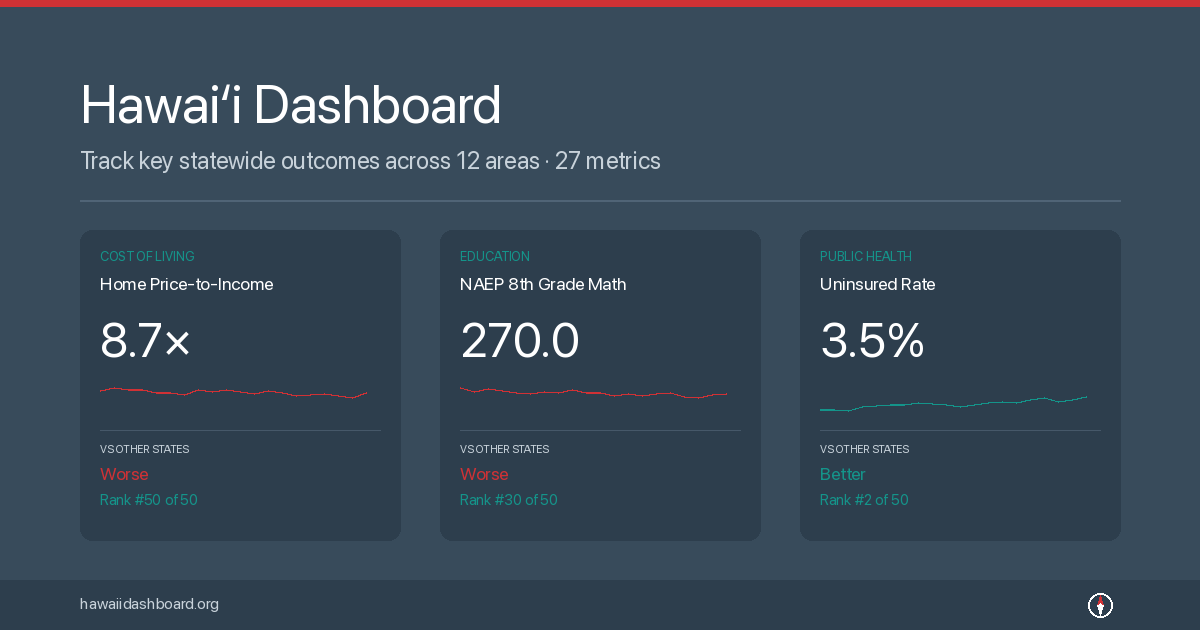
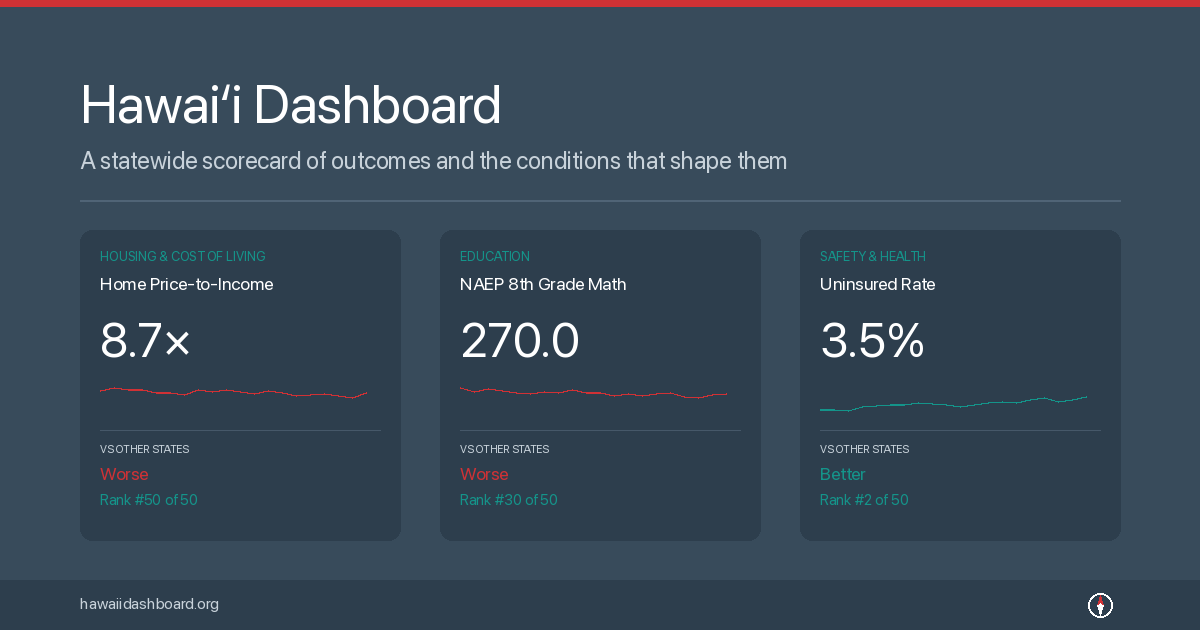
Rename 'Infrastructure, Energy, Resilience & Trust' to drop Energy
Shorter label: 'Infrastructure, Resilience & Trust'. Energy metrics
(electricity price, renewables) are still in this group -- the
category name just doesn't need to call it out separately.

Also regenerated main OG image with updated area labels.

Changed region(s): [[0.0617, 0.2413, 0.6475, 0.2714], [0.0925, 0.3921, 0.2158, 0.4222], [0.6783, 0.3921, 0.7708, 0.4222]]

diff --git a/about/index.html b/about/index.html
@@ -106,7 +106,7 @@
                         <tr><td rowspan="4"><a href="https://data.census.gov/" target="_blank" rel="noopener">Census ACS</a></td><td class="metric-name">Uninsured Rate</td><td class="area-cell">Safety &amp; Health</td><td>%</td><td>2010-2024</td><td class="direction-cell">Lower</td><td class="note-cell">Survey estimate; margin of error</td></tr>
                         <tr><td class="metric-name">Renters Paying 30%+ for Housing</td><td class="area-cell">Housing &amp; Cost of Living</td><td>%</td><td>2012-2024</td><td class="direction-cell">Lower</td><td class="note-cell">30% rule is a rough cutoff</td></tr>
                         <tr><td class="metric-name">Home Price-to-Income Ratio</td><td class="area-cell">Housing &amp; Cost of Living</td><td>&times;</td><td>2005-2024</td><td class="direction-cell">Lower</td><td class="note-cell">Proxy only; financing not included</td></tr>
-                        <tr><td class="metric-name">Households with Broadband</td><td class="area-cell">Infra, Energy, Resilience &amp; Trust</td><td>%</td><td>2016-2024</td><td class="direction-cell">Higher</td><td class="note-cell">Has service, not speed/quality</td></tr>
+                        <tr><td class="metric-name">Households with Broadband</td><td class="area-cell">Infra, Resilience &amp; Trust</td><td>%</td><td>2016-2024</td><td class="direction-cell">Higher</td><td class="note-cell">Has service, not speed/quality</td></tr>
                         <tr><td rowspan="3"><a href="https://www.bls.gov/" target="_blank" rel="noopener">BLS</a></td><td class="metric-name">Unemployment Rate</td><td class="area-cell">Economy &amp; Workforce</td><td>%</td><td>1976-2024</td><td class="direction-cell">Lower</td><td class="note-cell">Excludes discouraged workers</td></tr>
                         <tr><td class="metric-name">Labor Force Participation</td><td class="area-cell">Economy &amp; Workforce</td><td>%</td><td>1976-2024</td><td class="direction-cell">Higher</td><td class="note-cell">Does not show job quality</td></tr>
                         <tr><td class="metric-name">Labor Productivity</td><td class="area-cell">Economy &amp; Workforce</td><td>Index</td><td>2007-2024</td><td class="direction-cell">Higher</td><td class="note-cell">Output per hour, not pay</td></tr>
@@ -115,18 +115,18 @@
                         <tr><td rowspan="2"><a href="https://cde.ucr.cjis.gov/" target="_blank" rel="noopener">FBI UCR</a></td><td class="metric-name">Violent Crime Rate</td><td class="area-cell">Safety &amp; Health</td><td>per 100K</td><td>1985-2024</td><td class="direction-cell">Lower</td><td class="note-cell">Reported crimes; 2021 method change</td></tr>
                         <tr><td class="metric-name">Property Crime Rate</td><td class="area-cell">Safety &amp; Health</td><td>per 100K</td><td>1985-2024</td><td class="direction-cell">Lower</td><td class="note-cell">Reported crimes; 2021 method change</td></tr>
                         <tr><td rowspan="2"><a href="https://www.eia.gov/electricity/data/state/" target="_blank" rel="noopener">EIA</a></td><td class="metric-name">Residential Electricity Price</td><td class="area-cell">Housing &amp; Cost of Living</td><td>&cent;/kWh</td><td>1990-2025</td><td class="direction-cell">Lower</td><td class="note-cell">Price, not monthly bill</td></tr>
-                        <tr><td class="metric-name">Electricity from Renewables</td><td class="area-cell">Infra, Energy, Resilience &amp; Trust</td><td>%</td><td>2003-2025</td><td class="direction-cell">Higher</td><td class="note-cell">Generation share, not full mix</td></tr>
+                        <tr><td class="metric-name">Electricity from Renewables</td><td class="area-cell">Infra, Resilience &amp; Trust</td><td>%</td><td>2003-2025</td><td class="direction-cell">Higher</td><td class="note-cell">Generation share, not full mix</td></tr>
                         <tr><td><a href="https://www.bea.gov/data/income-saving/personal-income-by-state" target="_blank" rel="noopener">BEA</a></td><td class="metric-name">Per Capita Income (cost-of-living adj.)</td><td class="area-cell">Economy &amp; Workforce</td><td>$</td><td>2008-2024</td><td class="direction-cell">Higher</td><td class="note-cell">Average income; hides gaps</td></tr>
                         <tr><td><a href="https://www.cdc.gov/suicide/facts/data.html" target="_blank" rel="noopener">CDC NVSS</a></td><td class="metric-name">Suicide Rate</td><td class="area-cell">Safety &amp; Health</td><td>per 100K</td><td>1999-2024</td><td class="direction-cell">Lower</td><td class="note-cell">Small numbers can swing rate</td></tr>
-                        <tr><td><a href="https://www.census.gov/data/datasets/time-series/demo/popest/2020s-state-total.html" target="_blank" rel="noopener">Census PEP</a></td><td class="metric-name">People Moving In vs. Out</td><td class="area-cell">Infra, Energy, Resilience &amp; Trust</td><td>per 10K</td><td>2001-2024</td><td class="direction-cell">Higher</td><td class="note-cell">Net flow, not reasons</td></tr>
-                        <tr><td><a href="https://www.fhwa.dot.gov/policyinformation/statistics.cfm" target="_blank" rel="noopener">FHWA</a></td><td class="metric-name">Roads in Poor Condition</td><td class="area-cell">Infra, Energy, Resilience &amp; Trust</td><td>%</td><td>2007-2023</td><td class="direction-cell">Lower</td><td class="note-cell">Not all local roads</td></tr>
+                        <tr><td><a href="https://www.census.gov/data/datasets/time-series/demo/popest/2020s-state-total.html" target="_blank" rel="noopener">Census PEP</a></td><td class="metric-name">People Moving In vs. Out</td><td class="area-cell">Infra, Resilience &amp; Trust</td><td>per 10K</td><td>2001-2024</td><td class="direction-cell">Higher</td><td class="note-cell">Net flow, not reasons</td></tr>
+                        <tr><td><a href="https://www.fhwa.dot.gov/policyinformation/statistics.cfm" target="_blank" rel="noopener">FHWA</a></td><td class="metric-name">Roads in Poor Condition</td><td class="area-cell">Infra, Resilience &amp; Trust</td><td>%</td><td>2007-2023</td><td class="direction-cell">Lower</td><td class="note-cell">Not all local roads</td></tr>
                         <tr><td><a href="https://data.hrsa.gov/topics/health-workforce/nchwa/ahrf" target="_blank" rel="noopener">HRSA</a></td><td class="metric-name">Primary Care Physicians (civilian doctors and residents)</td><td class="area-cell">Safety &amp; Health</td><td>per 100K</td><td>2010-2023</td><td class="direction-cell">Higher</td><td class="note-cell">Doctor count, not access</td></tr>
                         <tr><td><a href="https://www.huduser.gov/portal/datasets/ahar.html" target="_blank" rel="noopener">HUD</a></td><td class="metric-name">Unsheltered Homeless</td><td class="area-cell">Housing &amp; Cost of Living</td><td>per 10K</td><td>2012-2024</td><td class="direction-cell">Lower</td><td class="note-cell">One-night count; likely undercount</td></tr>
                         <tr><td rowspan="2"><a href="https://www.nationsreportcard.gov/" target="_blank" rel="noopener">NAEP</a></td><td class="metric-name">NAEP 8th Grade Math</td><td class="area-cell">Education</td><td>score</td><td>2003-2024</td><td class="direction-cell">Higher</td><td class="note-cell">Test score, not proficiency rate</td></tr>
                         <tr><td class="metric-name">NAEP 8th Grade Reading</td><td class="area-cell">Education</td><td>score</td><td>2003-2024</td><td class="direction-cell">Higher</td><td class="note-cell">Test score, not proficiency rate</td></tr>
-                        <tr><td><a href="https://www.nasbo.org/reports-data/fiscal-survey-of-states" target="_blank" rel="noopener">NASBO</a></td><td class="metric-name">Rainy Day Fund</td><td class="area-cell">Infra, Energy, Resilience &amp; Trust</td><td>%</td><td>2012-2025</td><td class="direction-cell">Higher</td><td class="note-cell">Not total state reserves</td></tr>
+                        <tr><td><a href="https://www.nasbo.org/reports-data/fiscal-survey-of-states" target="_blank" rel="noopener">NASBO</a></td><td class="metric-name">Rainy Day Fund</td><td class="area-cell">Infra, Resilience &amp; Trust</td><td>%</td><td>2012-2025</td><td class="direction-cell">Higher</td><td class="note-cell">Not total state reserves</td></tr>
                         <tr><td><a href="https://nces.ed.gov/" target="_blank" rel="noopener">NCES</a></td><td class="metric-name">High School Graduation Rate</td><td class="area-cell">Education</td><td>%</td><td>2011-2022</td><td class="direction-cell">Higher</td><td class="note-cell">On-time graduation only</td></tr>
-                        <tr><td><a href="https://www.electproject.org/" target="_blank" rel="noopener">US Elections Project</a></td><td class="metric-name">Voter Participation Rate</td><td class="area-cell">Infra, Energy, Resilience &amp; Trust</td><td>%</td><td>2002-2024</td><td class="direction-cell">Higher</td><td class="note-cell">Eligible voters, not all adults</td></tr>
+                        <tr><td><a href="https://www.electproject.org/" target="_blank" rel="noopener">US Elections Project</a></td><td class="metric-name">Voter Participation Rate</td><td class="area-cell">Infra, Resilience &amp; Trust</td><td>%</td><td>2002-2024</td><td class="direction-cell">Higher</td><td class="note-cell">Eligible voters, not all adults</td></tr>
                         <tr><td><a href="https://www.ers.usda.gov/" target="_blank" rel="noopener">USDA ERS</a></td><td class="metric-name">Food Insecurity Rate</td><td class="area-cell">Housing &amp; Cost of Living</td><td>%</td><td>2006-2024</td><td class="direction-cell">Lower</td><td class="note-cell">3-year average; not real time</td></tr>
                         <tr><td><a href="https://fred.stlouisfed.org/" target="_blank" rel="noopener">Census ACS / FRED</a></td><td class="metric-name">Adults with Bachelor's Degree+</td><td class="area-cell">Education</td><td>%</td><td>2008-2024</td><td class="direction-cell">Higher</td><td class="note-cell">Degree share, not skill fit</td></tr>
                     </tbody>

diff --git a/js/data.js b/js/data.js
@@ -979,7 +979,7 @@ const DASHBOARD_DATA = {
     "policyLevers": "Permanent supportive housing; shelter, outreach, and case management; mental health, substance use, and eviction prevention."
   },
   "road_poor_pct": {
-    "area": "Infrastructure, Energy, Resilience & Trust",
+    "area": "Infrastructure, Resilience & Trust",
     "areaIcon": "🛣",
     "metric": "Roads in Poor Condition",
     "unit": "%",
@@ -1027,7 +1027,7 @@ const DASHBOARD_DATA = {
     "policyLevers": "Pavement preservation funding; asset management and maintenance delivery; capital planning and resilience upgrades."
   },
   "broadband_subscription_pct": {
-    "area": "Infrastructure, Energy, Resilience & Trust",
+    "area": "Infrastructure, Resilience & Trust",
     "areaIcon": "🛣",
     "metric": "Households with Broadband",
     "officialName": "Percent of Households with a Broadband Internet Subscription (ACS B28002)",
@@ -1153,7 +1153,7 @@ const DASHBOARD_DATA = {
     "policyLevers": "Utility regulation and rate design; energy efficiency and bill relief; generation, fuel, and grid planning."
   },
   "renewables_share_gen": {
-    "area": "Infrastructure, Energy, Resilience & Trust",
+    "area": "Infrastructure, Resilience & Trust",
     "areaIcon": "🛣",
     "metric": "Electricity from Renewables",
     "officialName": "Renewable Sources as Share of Total Electricity Generation (EIA-923)",
@@ -1271,7 +1271,7 @@ const DASHBOARD_DATA = {
     "policyLevers": "SNAP and WIC access; school and summer meals; local food access and emergency food support."
   },
   "rainy_day_fund_pct": {
-    "area": "Infrastructure, Energy, Resilience & Trust",
+    "area": "Infrastructure, Resilience & Trust",
     "areaIcon": "🛣",
     "metric": "Rainy Day Fund",
     "officialName": "Budget Stabilization Fund Balance as Percent of General Fund Expenditures (NASBO)",
@@ -1318,7 +1318,7 @@ const DASHBOARD_DATA = {
     "policyLevers": "Reserve deposit rules; revenue forecasting and spending discipline; disaster readiness and recovery planning."
   },
   "voter_participation_rate": {
-    "area": "Infrastructure, Energy, Resilience & Trust",
+    "area": "Infrastructure, Resilience & Trust",
     "areaIcon": "🛣",
     "metric": "Voter Participation Rate",
     "unit": "%",
@@ -1361,7 +1361,7 @@ const DASHBOARD_DATA = {
     "policyLevers": "Statewide election rules and ballot access; registration and update pathways; voter education and trust."
   },
   "net_domestic_migration_rate": {
-    "area": "Infrastructure, Energy, Resilience & Trust",
+    "area": "Infrastructure, Resilience & Trust",
     "areaIcon": "🛣",
     "metric": "People Moving In vs. Out",
     "officialName": "Net Domestic Migration Rate per 10,000 Population (Census PEP)",

diff --git a/js/app.js b/js/app.js
@@ -58,7 +58,7 @@ const App = {
         { area: 'Housing & Cost of Living', metrics: ['renter_cost_burden_pct', 'home_price_to_income', 'unsheltered_homeless_rate', 'residential_price_cpkwh', 'food_insecurity_rate'] },
         { area: 'Economy & Workforce', metrics: ['unemployment_rate', 'labor_force_participation', 'labor_productivity', 'real_per_capita_income', 'estabs_entry_rate', 'net_employer_formation'] },
         { area: 'Education', metrics: ['naep_math_8', 'naep_reading_8', 'acgr', 'ba_or_higher_pct'] },
-        { area: 'Infrastructure, Energy, Resilience & Trust', metrics: ['road_poor_pct', 'broadband_subscription_pct', 'renewables_share_gen', 'rainy_day_fund_pct', 'voter_participation_rate', 'net_domestic_migration_rate'] },
+        { area: 'Infrastructure, Resilience & Trust', metrics: ['road_poor_pct', 'broadband_subscription_pct', 'renewables_share_gen', 'rainy_day_fund_pct', 'voter_participation_rate', 'net_domestic_migration_rate'] },
     ],
 
     init() {

diff --git a/scripts/generate-og-image.py b/scripts/generate-og-image.py
@@ -40,9 +40,9 @@ img.line([(80, 200), (1120, 200)], fill=(80, 100, 118), width=2)
 
 # --- Sample metric cards (3 across) ---
 cards = [
-    {"area": "COST OF LIVING", "metric": "Home Price-to-Income", "value": "8.7\u00d7", "rank": "#50 of 50", "verdict": "Worse", "color": ACCENT},
+    {"area": "HOUSING & COST OF LIVING", "metric": "Home Price-to-Income", "value": "8.7\u00d7", "rank": "#50 of 50", "verdict": "Worse", "color": ACCENT},
     {"area": "EDUCATION", "metric": "NAEP 8th Grade Math", "value": "270.0", "rank": "#30 of 50", "verdict": "Worse", "color": ACCENT},
-    {"area": "PUBLIC HEALTH", "metric": "Uninsured Rate", "value": "3.5%", "rank": "#2 of 50", "verdict": "Better", "color": TEAL},
+    {"area": "SAFETY & HEALTH", "metric": "Uninsured Rate", "value": "3.5%", "rank": "#2 of 50", "verdict": "Better", "color": TEAL},
 ]
 
 card_w = 320

diff --git a/DOCUMENTATION.md b/DOCUMENTATION.md
@@ -97,12 +97,12 @@ hawaii-dashboard/
 | 18 | Education | NAEP 8th Grade Reading | score | Up | NAEP |
 | 19 | Education | High School Graduation Rate (ACGR) | % | Up | NCES |
 | 20 | Education | Adults 25+ with Bachelor's+ | % | Up | Census ACS |
-| 21 | Infra, Energy, Resilience & Trust | Roads in Poor Condition | % | Down | FHWA |
-| 22 | Infra, Energy, Resilience & Trust | Broadband Subscriptions | % | Up | Census ACS |
-| 23 | Infra, Energy, Resilience & Trust | Electricity from Renewables | % | Up | EIA |
-| 24 | Infra, Energy, Resilience & Trust | Rainy Day Fund (% of General Fund) | % | Up | NASBO |
-| 25 | Infra, Energy, Resilience & Trust | Voter Participation Rate | % | Up | EAC |
-| 26 | Infra, Energy, Resilience & Trust | Net Domestic Migration | per 10K | Up | Census PEP |
+| 21 | Infra, Resilience & Trust | Roads in Poor Condition | % | Down | FHWA |
+| 22 | Infra, Resilience & Trust | Broadband Subscriptions | % | Up | Census ACS |
+| 23 | Infra, Resilience & Trust | Electricity from Renewables | % | Up | EIA |
+| 24 | Infra, Resilience & Trust | Rainy Day Fund (% of General Fund) | % | Up | NASBO |
+| 25 | Infra, Resilience & Trust | Voter Participation Rate | % | Up | EAC |
+| 26 | Infra, Resilience & Trust | Net Domestic Migration | per 10K | Up | Census PEP |
 
 All data is **non-partisan, publicly available, and reported the same way for all 50 states**.
 

diff --git a/README.md b/README.md
@@ -61,7 +61,7 @@ Generates per-metric OG images (detail, rankings, county) and redirect pages wit
 | Housing & Cost of Living | Renter Cost Burden, Home Price-to-Income, Unsheltered Homeless, Electricity Price, Food Insecurity | Partial |
 | Economy & Workforce | Unemployment, Labor Force Participation, Labor Productivity, Per Capita Income, Business Entry, Net Employer Formation | Partial |
 | Education | NAEP Math 8, NAEP Reading 8, HS Graduation, Bachelor's+ | Partial |
-| Infra, Energy, Resilience & Trust | Road Quality, Broadband, Renewables, Rainy Day Fund, Voter Participation, Net Migration | Partial |
+| Infra, Resilience & Trust | Road Quality, Broadband, Renewables, Rainy Day Fund, Voter Participation, Net Migration | Partial |
 
 ## Design principles
 
